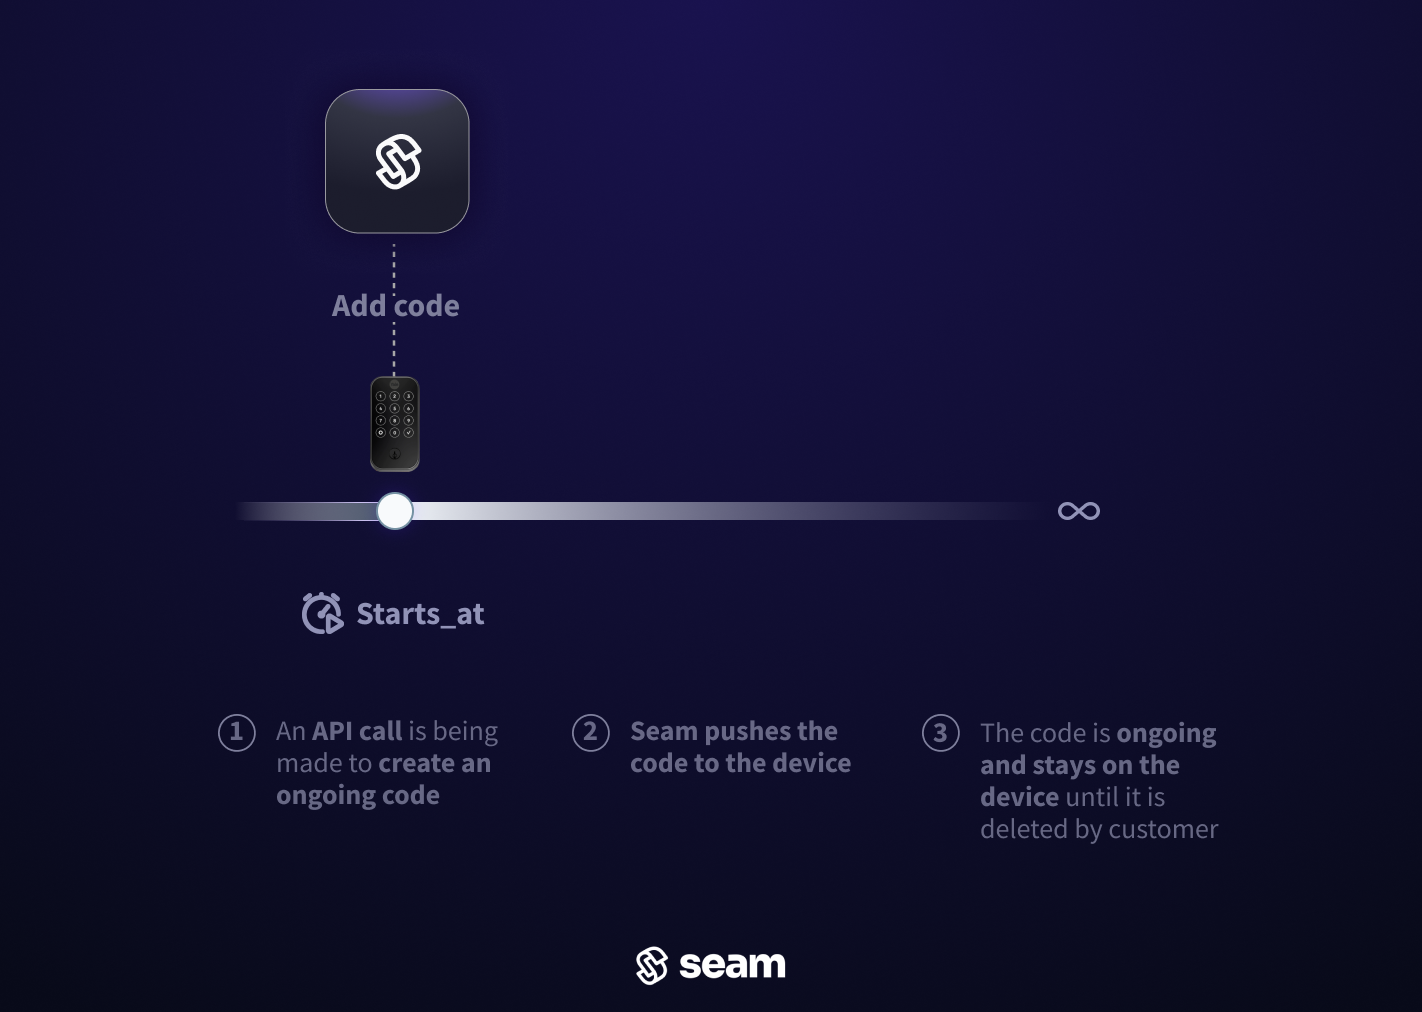
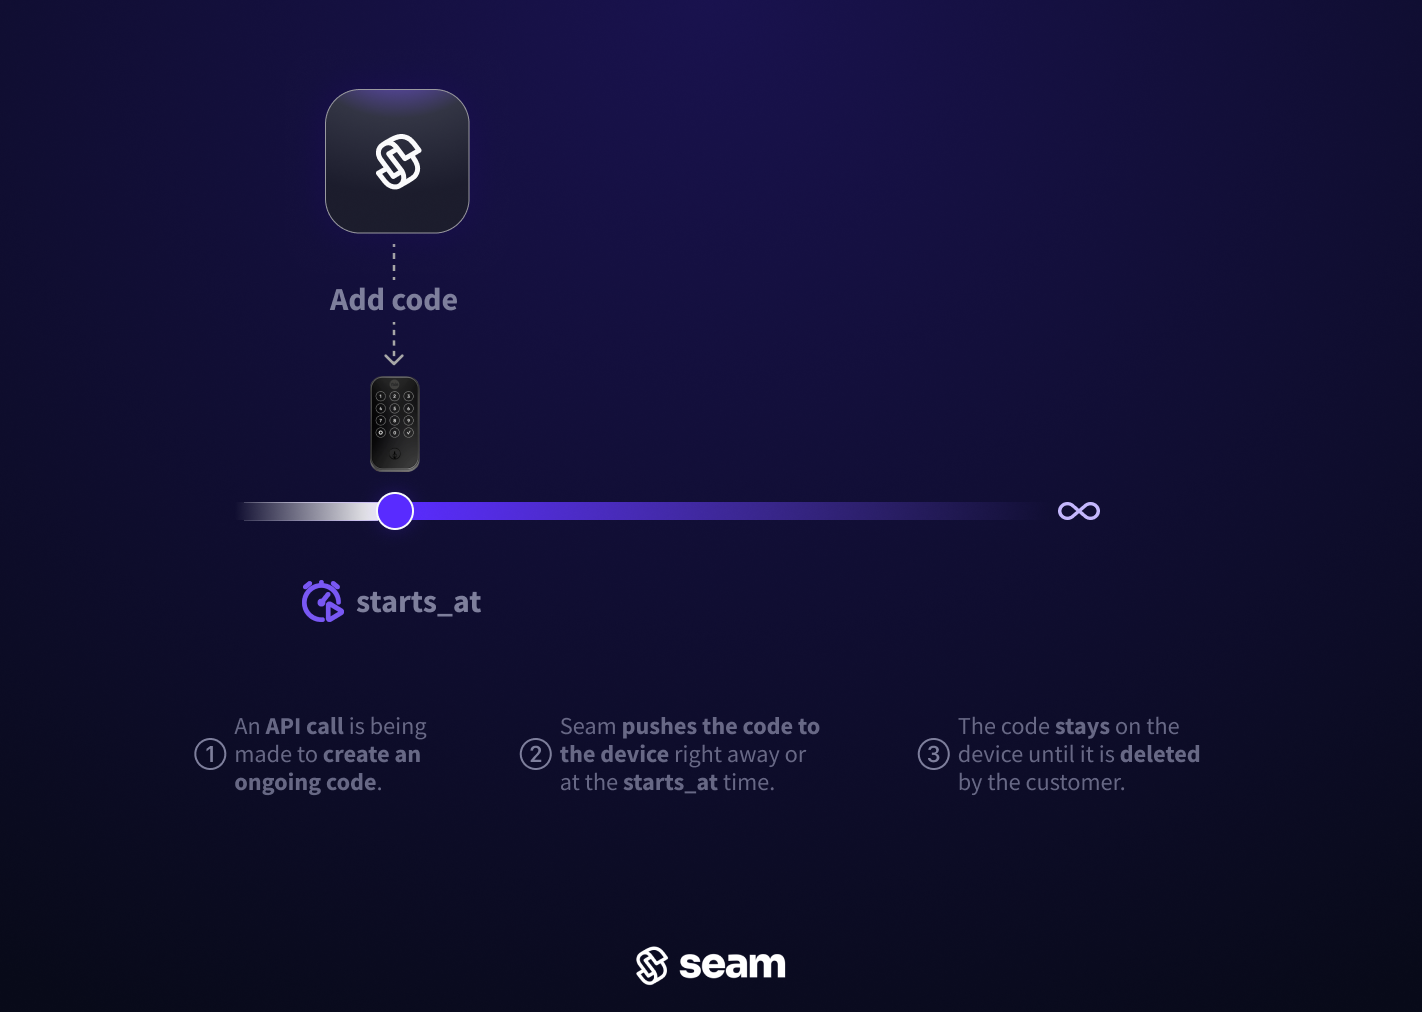
GITBOOK-399: Replace two access code images

diff --git a/docs/products/smart-locks/access-codes/README.md b/docs/products/smart-locks/access-codes/README.md
@@ -1,6 +1,6 @@
 ---
 description: >-
-  Access codes are codes for keypad devices. These are used when you want to
+  Access codes are codes for keypad devices. Use access codes when you want to
   provide access to a lock using a PIN code.
 layout:
   title:
@@ -21,7 +21,7 @@ layout:
 
 ## What Is an Access Code?
 
-An Access code is a code used for a keypad or pinpad device. Unlike physical keys, which can be easily lost or duplicated, PIN codes can be customized, tracked, and altered on-the-fly. Using the Seam [Access Code API](../../../api-clients/access-codes/), you can easily generate access codes on the hundreds of door lock models with which we integrate.
+An access code is a code used for a keypad or pinpad device. Unlike physical keys, which can easily be lost or duplicated, PIN codes can be customized, tracked, and altered on the fly. Using the Seam [Access Code API](../../../api-clients/access-codes/), you can easily generate access codes on the hundreds of door lock models with which we integrate.
 
 Seam supports programming two types of access codes: [ongoing](./#ongoing-access-codes) and [time-bound](./#time-bound-access-codes). To differentiate between the two, refer to the `type` property of the access code. Ongoing codes display as `ongoing`, whereas time-bound codes are labeled `time_bound`.
 
@@ -29,15 +29,15 @@ In addition, for certain devices, Seam also supports [offline access codes](./#o
 
 ### **Ongoing Access Codes**
 
-Ongoing access code are ideal for residents or long-term users. Ongoing codes remain active on a device until removed. They can start right away or at a later date if you provide a `starts_at`timestamp.
+Ongoing access code are ideal for residents or long-term users. Ongoing codes remain active on a device until they are removed. They can start right away or at a later date if you provide a `starts_at` timestamp.
 
-<figure><img src="../../../.gitbook/assets/ongoing-access-code-light.png" alt=""><figcaption><p>Timeline of an ongoing access code. The code will remain active until you ask Seam to remove it.</p></figcaption></figure>
+<figure><picture><source srcset="../../../.gitbook/assets/ongoing-access-code-dark.png" media="(prefers-color-scheme: dark)"><img src="../../../.gitbook/assets/ongoing-access-code-light.png" alt="Timeline of an ongoing access code. The code remains active until you ask Seam to remove it."></picture><figcaption><p>Timeline of an ongoing access code. The code remains active until you ask Seam to remove it.</p></figcaption></figure>
 
 ### **Time-Bound Access Codes**
 
-Time-bound access codes are suitable for temporary access like guest visits or service appointments. These codes operate between a designated `starts_at` and `ends_at` time window, granting access only during that period.
+Time-bound access codes are suitable for temporary access, like guest visits or service appointments. These codes operate between designated `starts_at` and `ends_at` timestamps, granting access only during this period.
 
-<figure><img src="../../../.gitbook/assets/time-bound-access-code-light.png" alt=""><figcaption><p>Timeline of an time-bound access code. The code will remain active until the <code>ends_at</code> timestamp you provide Seam.</p></figcaption></figure>
+<figure><picture><source srcset="../../../.gitbook/assets/time-bound-access-code-dark.png" media="(prefers-color-scheme: dark)"><img src="../../../.gitbook/assets/time-bound-access-code-light.png" alt="Timeline of a time-bound access code. The code remains active until the ends_at timestamp that you provide to Seam."></picture><figcaption><p>Timeline of a time-bound access code. The code remains active until the <code>ends_at</code> timestamp that you provide to Seam.</p></figcaption></figure>
 
 ### Offline Access Codes
 
